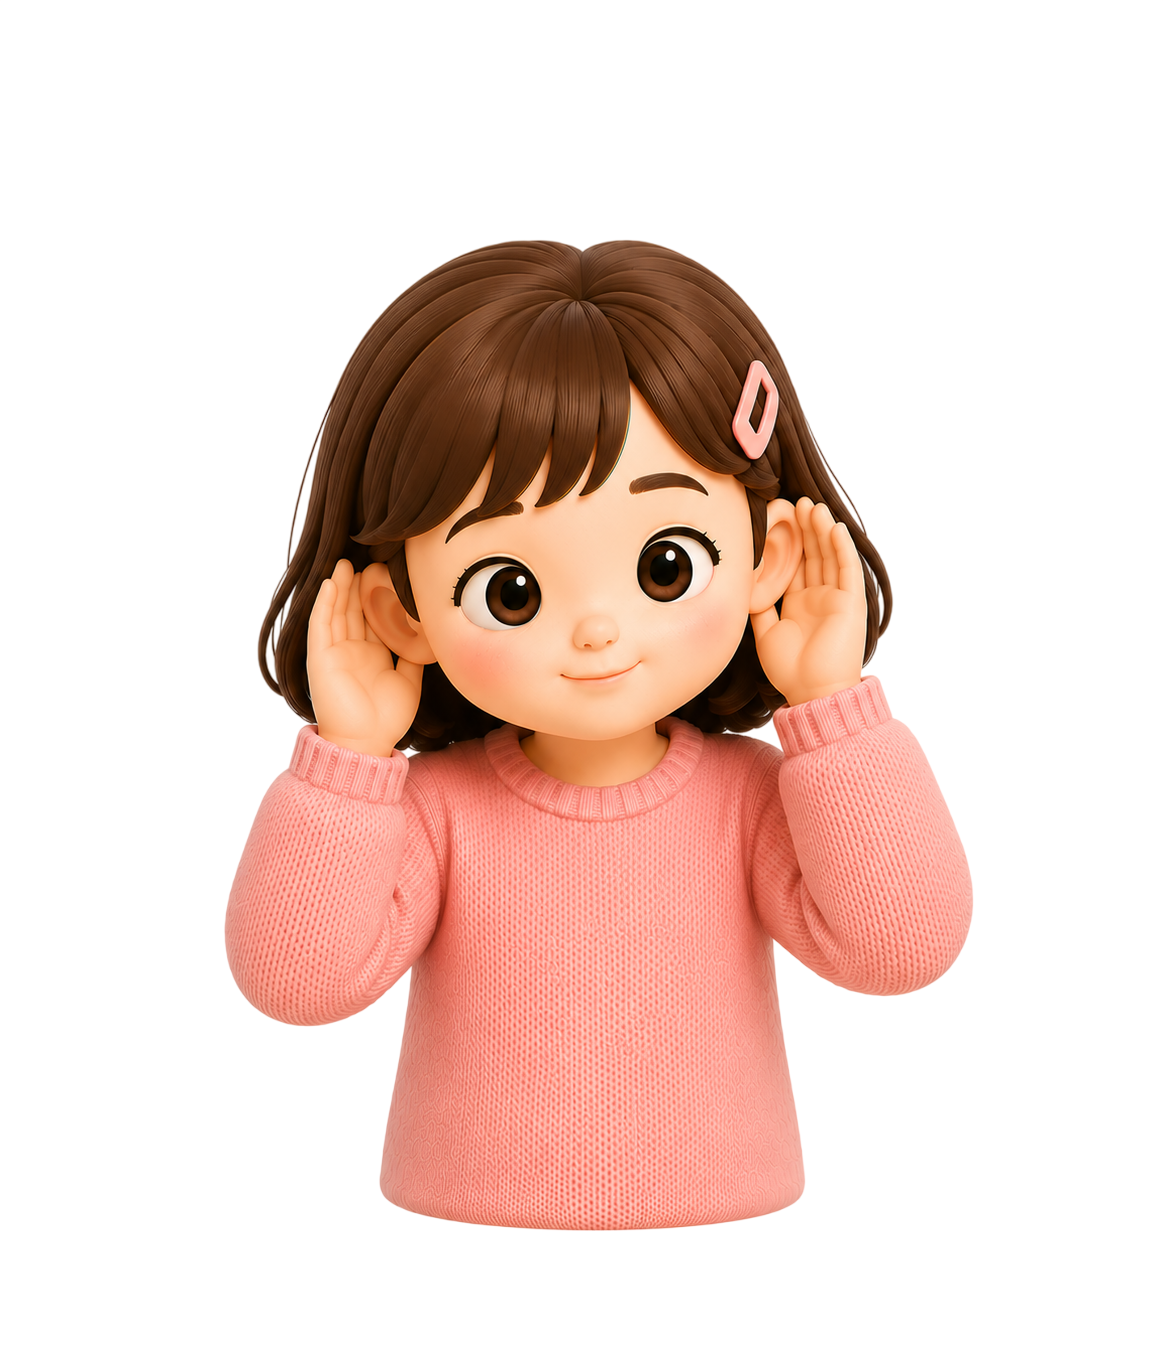
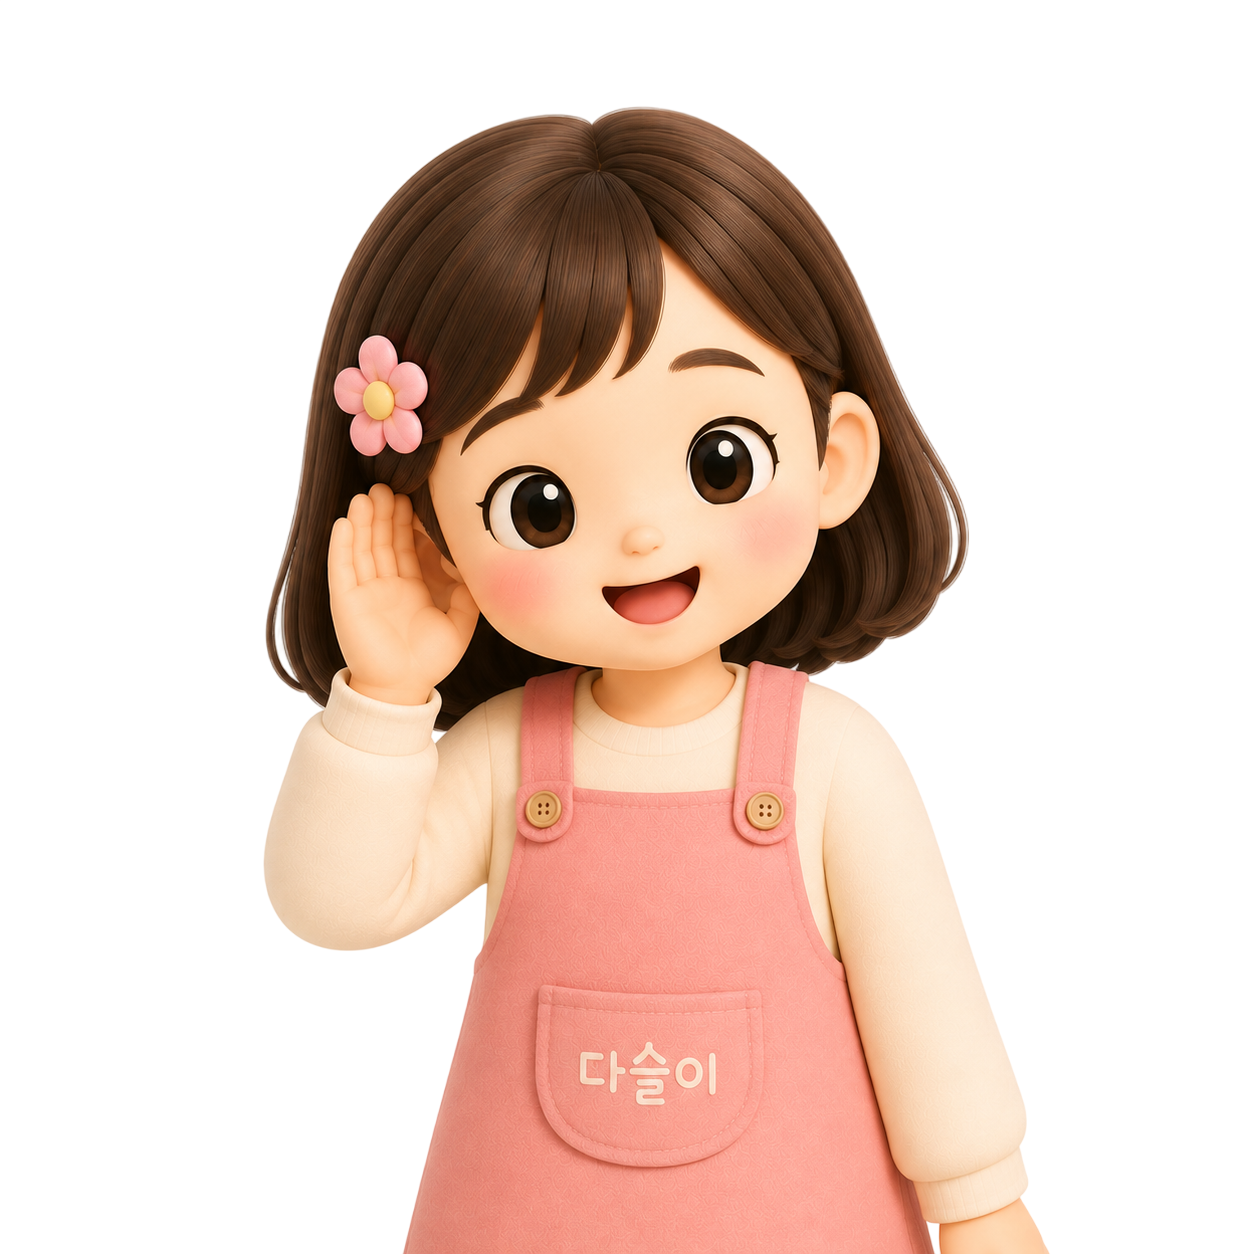
chore: 다솔 캐릭터/브랜드 에셋 교체
로그인 화면 브랜드 이미지를 mascot-granddaughter-greeting.png에서
logo-daseul.png로 교체하고, 대화 시작 화면의 다솔 인사 이미지를
webp에서 png로 바꿨다. 대화 화면의 듣기/생각 중 다솔 이미지 3개도
새 버전으로 갱신했다. 더 이상 코드에서 참조하지 않는 옛
mascot-granddaughter-greeting.png는 함께 삭제했다.

결정사항 로그의 마스코트 캐릭터 정책 항목도 새 파일명(logo-daseul)
기준으로 갱신했다.

diff --git a/apps/frontend/src/pages/login/ui/LoginPage.tsx b/apps/frontend/src/pages/login/ui/LoginPage.tsx
@@ -1,7 +1,7 @@
 import { useNavigate } from 'react-router-dom'
 import { Button, Card } from '../../../shared/ui'
 import { LoginForm } from '../../../features/login-with-credentials'
-import brandImage from './mascot-granddaughter-greeting.png'
+import brandImage from './logo-daseul.png'
 import styles from './LoginPage.module.css'
 
 // LOGIN_01 (UC-00)

diff --git a/apps/frontend/src/features/start-conversation/ui/index.tsx b/apps/frontend/src/features/start-conversation/ui/index.tsx
@@ -1,5 +1,5 @@
 import { Link } from 'react-router-dom'
-import characterImage from './character-daseul-greeting.webp'
+import characterImage from './character-daseul-greeting.png'
 import styles from './StartConversationAction.module.css'
 
 export function StartConversationAction() {

diff --git a/docs/마음잇다_결정사항_및_이슈로그.md b/docs/마음잇다_결정사항_및_이슈로그.md
@@ -49,7 +49,7 @@
 | 웹 푸시 알림(실제 push 발송) 구현 시점 | **MVP 범위 아님.** 이 프로젝트는 먼저 웹앱으로 구현하고, 이후 PWA를 적용하는 시점에 Service Worker/Push API 기반 푸시를 별도로 추가할 계획. MVP에서는 알림함(REST 조회)만으로 알림을 전달함 | **문서와는 배치되지만 팀 결정 우선.** 최신 요구사항정의서 UC-10/FR-03-03은 "알림 서버를 통해 연동된 보호자의 모바일 기기로 푸시 알림을 전송", "보호자의 스마트폰에 ... 알림 팝업이 수신됨", "기기가 오프라인이면 알림 서버 큐에 보관 후 재발송" 등 실제 push 발송 플로우를 구체적으로 기술한다 — 더 이상 "문서에 언급 없음"이 아니다. 그럼에도 팀 결정은 그대로 유효: MVP는 알림함(REST 조회)만 구현하고 실제 push 인프라(Service Worker 등)는 만들지 않는다. UC-10/FR-03-03의 push 관련 서술은 로드맵상 미래(PWA 단계) 사양으로 이해할 것 — `apps/backend`/`apps/frontend`에 지금 Service Worker나 웹 푸시 관련 코드를 미리 만들지 말 것. 문서·발표 자료의 문구를 실제 구현 범위와 맞추는 정리 작업은 아직 남아있음(§2-8) |
 | 구 UC-14 (대화 빈도 기반 캐릭터 환경 꾸미기) | **구현하지 않음** | **반영됨(문서에서 삭제) — 단, ID는 재사용됨.** "캐릭터", "꾸미기" 개념 자체는 문서에서 사라졌지만, `UC-14` ID는 최신 요구사항정의서에서 전혀 다른 기능인 "시니어 일간 기록 조회"(FR-01-09)로 재배정되었다. `FR-01-08`도 이미 "음성 분석 실패 처리"로 재사용된 바 있음. 새 UC-14는 §5에서 "완전 신규, UC/FR 미배정"으로 기록했던 시니어 일간 기록 조회 화면과 동일 기능이며, 이제 정식 UC/FR가 배정됐다는 뜻 — §5 갱신 내용 참고 |
 | AI 엔진 벤더 | 미정(README 상 "OpenAI API 가정") | **반영됨(벤더 확정).** 최신 기획서 3쪽·8쪽 "사용 기술"에 "AI: Python, FastAPI, OpenAI API, Typecast API"로 명시되어, LLM(꼬리질문 생성·실시간 감성분석)은 OpenAI API, TTS는 Typecast(Typecast Streaming API)로 벤더가 확정됨. 요구사항정의서 FR-01-05·NFR-PE-001도 "TTS 엔진(Typecast Streaming API)"·"Typecast 기준 TTFB 약 200ms"로 동일하게 명시. `README.md`/`CLAUDE.md`의 "벤더 미정" 표기는 갱신함 |
-| 마스코트 캐릭터 정책 | (미정이었음) | **신규 결정(2026-08-06, 구두).** 펭귄 캐릭터는 앞으로 사용하지 않는다. 시니어 화면은 이미 '다솔'(손녀 페르소나, `apps/frontend`의 `character-daseul-*`/`mascot-granddaughter-greeting` 에셋)로 정리되어 있고 펭귄과 무관하며 그대로 유지한다. 문제는 보호자 화면 쪽이다 — 화면설계서 `GUARDIAN_HOME_01`·`GUARDIAN_REPORT_01` 목업(10~11쪽)에는 여전히 펭귄 일러스트가 "오늘의 정서지수"·"AI 추천 행동" 영역에 남아있다. 이번 화면설계서 개정(v0.4, 2026.08.06 "시니어 화면 설계 수정")은 시니어 화면만 다뤘으므로 보호자 화면은 구버전 그대로다. **보호자 화면을 신규 구현/개정할 때 이 펭귄 삽화를 참고하지 말 것** — 실제 `apps/frontend`에도 펭귄 관련 에셋은 전혀 없으며(다솔 캐릭터만 존재), 이 방향이 맞다 |
+| 마스코트 캐릭터 정책 | (미정이었음) | **신규 결정(2026-08-06, 구두).** 펭귄 캐릭터는 앞으로 사용하지 않는다. 시니어 화면은 이미 '다솔'(손녀 페르소나, `apps/frontend`의 `character-daseul-*`/`logo-daseul` 에셋)로 정리되어 있고 펭귄과 무관하며 그대로 유지한다. 문제는 보호자 화면 쪽이다 — 화면설계서 `GUARDIAN_HOME_01`·`GUARDIAN_REPORT_01` 목업(10~11쪽)에는 여전히 펭귄 일러스트가 "오늘의 정서지수"·"AI 추천 행동" 영역에 남아있다. 이번 화면설계서 개정(v0.4, 2026.08.06 "시니어 화면 설계 수정")은 시니어 화면만 다뤘으므로 보호자 화면은 구버전 그대로다. **보호자 화면을 신규 구현/개정할 때 이 펭귄 삽화를 참고하지 말 것** — 실제 `apps/frontend`에도 펭귄 관련 에셋은 전혀 없으며(다솔 캐릭터만 존재), 이 방향이 맞다 |
 
 ---
 
